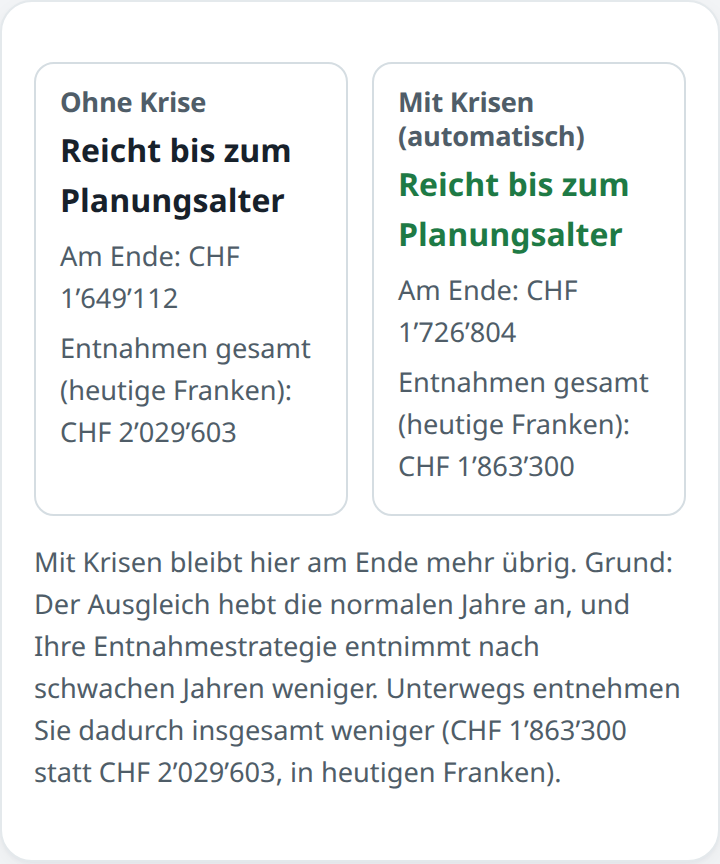
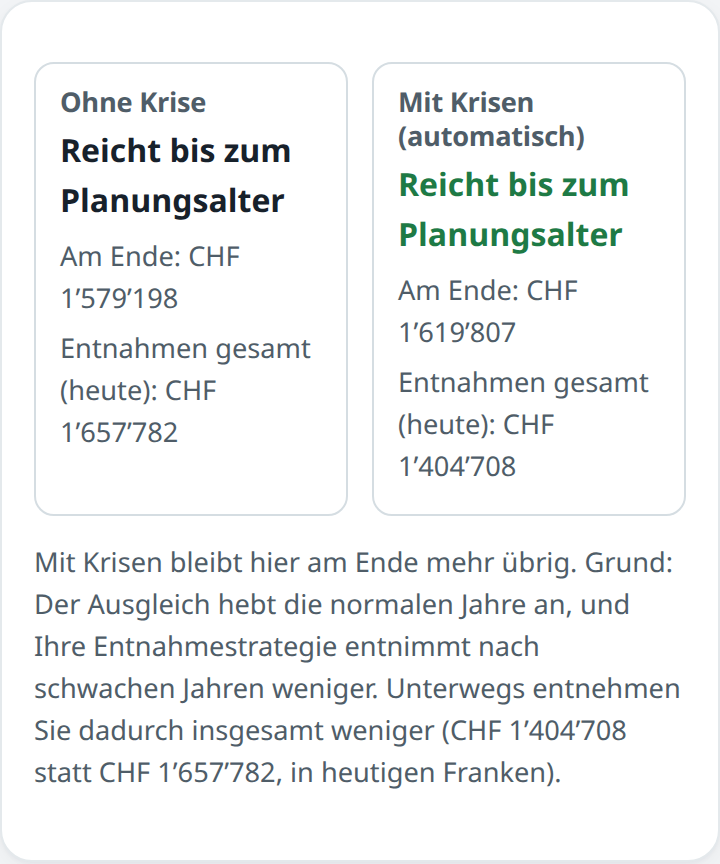
Hinweis «mehr übrig» folgt Ende, Erfolg und Entnahmen (Version 1.3.8)
Der Satz über schwache Jahre steht nur, wenn wirklich weniger entnommen wird. Verglichen wird das reale Endvermögen, erst ab CHF 10’000 und nur bei einem positiven Erfolg.

diff --git a/src/ui/krisenAnzeigeRendite.test.ts b/src/ui/krisenAnzeigeRendite.test.ts
@@ -12,6 +12,7 @@ import {
   entnahmenGesamt,
   haushaltOhneKrise,
   KrisenSteuerung,
+  MEHR_UEBRIG_AB,
   mehrUebrigText,
   vergleichOhneKrise,
 } from './components/Krisen';
@@ -223,56 +224,183 @@ describe('Vergleich Ohne Krise mit dem Regler', () => {
     const hw = mitWasWaere(h, { ...KEIN_WAS_WAERE, rendite: 0.1 }, 2026);
     const ohne = vergleichOhneKrise(hw, regeln, start);
     const mit = rechne(hw, regeln, start, 'gemeinsam').wunsch;
-    const dar = darstellungVon(h);
-    const endeOhne = endBetrag(ohne, dar);
-    const endeMit = endBetrag(mit, dar);
     const summeOhne = entnahmenGesamt(ohne);
     const summeMit = entnahmenGesamt(mit);
     expect(summeOhne).toBe(ohne.zeilen.reduce((s, z) => s + z.entnahmeFrei, 0));
     expect(summeMit).toBe(mit.zeilen.reduce((s, z) => s + z.entnahmeFrei, 0));
-    expect(Math.round(endeMit)).toBeGreaterThan(Math.round(endeOhne));
+    expect(mit.erfolg).toBe(true);
+    expect(mit.endVermoegen - ohne.endVermoegen).toBeGreaterThanOrEqual(MEHR_UEBRIG_AB);
     expect(summeMit).toBeLessThan(summeOhne);
-    const text = mehrUebrigText(endeOhne, endeMit, summeOhne, summeMit, true, normalisiereEntnahme(hw.entnahme));
+    const text = mehrUebrigText(
+      ohne.endVermoegen,
+      mit.endVermoegen,
+      summeOhne,
+      summeMit,
+      true,
+      normalisiereEntnahme(hw.entnahme),
+      mit.erfolg,
+    );
     expect(text).toContain('entnimmt nach schwachen Jahren weniger');
     expect(text).toContain(`${fmtChf(summeMit)} statt ${fmtChf(summeOhne)}`);
     const html = kasten(h, 0.1, mit, hw);
-    expect(html).toContain(`Entnahmen gesamt (heutige Franken): ${fmtChf(summeOhne)}`);
-    expect(html).toContain(`Entnahmen gesamt (heutige Franken): ${fmtChf(summeMit)}`);
+    expect(html).toContain(`Entnahmen gesamt (heute): ${fmtChf(summeOhne)}`);
+    expect(html).toContain(`Entnahmen gesamt (heute): ${fmtChf(summeMit)}`);
     expect(html).toContain(text ?? '');
 
     const stress = haushalt('individuell', false);
     const hwStress = mitWasWaere(stress, { ...KEIN_WAS_WAERE, rendite: 0.1 }, 2026);
     const ohneStress = vergleichOhneKrise(hwStress, regeln, start);
     const mitStress = rechne(hwStress, regeln, start, 'gemeinsam').wunsch;
-    expect(Math.round(endBetrag(mitStress, dar))).toBeLessThan(Math.round(endBetrag(ohneStress, dar)));
+    expect(Math.round(mitStress.endVermoegen)).toBeLessThan(Math.round(ohneStress.endVermoegen));
     const htmlStress = kasten(stress, 0.1, mitStress, hwStress);
     expect(htmlStress).not.toContain('bleibt hier am Ende mehr übrig');
-    expect(htmlStress).toContain(`Entnahmen gesamt (heutige Franken): ${fmtChf(entnahmenGesamt(ohneStress))}`);
-    expect(htmlStress).toContain(`Entnahmen gesamt (heutige Franken): ${fmtChf(entnahmenGesamt(mitStress))}`);
+    expect(htmlStress).toContain(`Entnahmen gesamt (heute): ${fmtChf(entnahmenGesamt(ohneStress))}`);
+    expect(htmlStress).toContain(`Entnahmen gesamt (heute): ${fmtChf(entnahmenGesamt(mitStress))}`);
   });
 
-  it('ohne gestaffelte Strategie nennt der Hinweis nicht die Stufen', () => {
+  it('ohne gestaffelte oder dynamische Strategie nennt der Hinweis nicht die schwachen Jahre', () => {
     const h = { ...haushalt('automatisch', false), entnahme: entnahmeAusgaben() };
     const hw = mitWasWaere(h, { ...KEIN_WAS_WAERE, rendite: 0.1 }, 2026);
     const ohne = vergleichOhneKrise(hw, regeln, start);
     const mit = rechne(hw, regeln, start, 'gemeinsam').wunsch;
-    const dar = darstellungVon(h);
     const text = mehrUebrigText(
-      endBetrag(ohne, dar),
-      endBetrag(mit, dar),
+      ohne.endVermoegen,
+      mit.endVermoegen,
       entnahmenGesamt(ohne),
       entnahmenGesamt(mit),
       true,
       normalisiereEntnahme(hw.entnahme),
+      mit.erfolg,
     );
     const html = kasten(h, 0.1, mit, hw);
     if (text) {
       expect(text).not.toContain('schwachen Jahren');
+      expect(text).not.toContain('dadurch insgesamt weniger');
       expect(text).toContain('Der Ausgleich hebt die normalen Jahre an');
       expect(html).toContain(text);
     } else {
       expect(html).not.toContain('bleibt hier am Ende mehr übrig');
     }
     expect(html).not.toContain('schwachen Jahren');
+  });
+
+  it('W-01: der Satz über schwache Jahre steht nur, wenn weniger entnommen wird', () => {
+    const basis = haushalt('automatisch', false);
+    const h = {
+      ...basis,
+      personen: [{ ...(basis.personen[0] as (typeof basis.personen)[0]), wertschriften: 250_000 }],
+      ausgaben: { ...basis.ausgaben, lebenshaltung: 100_000 },
+      planungsalter: 80,
+    };
+    const hw = mitWasWaere(h, { ...KEIN_WAS_WAERE, rendite: 0.04 }, 2026);
+    const ohne = vergleichOhneKrise(hw, regeln, start);
+    const mit = rechne(hw, regeln, start, 'gemeinsam').wunsch;
+    const summeOhne = entnahmenGesamt(ohne);
+    const summeMit = entnahmenGesamt(mit);
+    expect(mit.erfolg).toBe(true);
+    expect(mit.endVermoegen).toBeGreaterThan(0);
+    expect(mit.endVermoegen - ohne.endVermoegen).toBeGreaterThanOrEqual(MEHR_UEBRIG_AB);
+    expect(summeMit).toBeGreaterThanOrEqual(summeOhne);
+    const text = mehrUebrigText(
+      ohne.endVermoegen,
+      mit.endVermoegen,
+      summeOhne,
+      summeMit,
+      true,
+      normalisiereEntnahme(hw.entnahme),
+      mit.erfolg,
+    );
+    expect(text).toContain('Je nachdem, wann die Krisen fallen, wächst das Vermögen dadurch insgesamt stärker.');
+    expect(text).not.toContain('schwachen Jahren');
+    expect(text).not.toContain('insgesamt weniger');
+    const html = kasten(h, 0.04, mit, hw);
+    expect(html).toContain(text ?? '');
+    expect(html).not.toContain('schwachen Jahren');
+  });
+
+  it('W-02: im Ruinfall steht der Hinweis nicht, auch wenn das Ende höher ist', () => {
+    const basis = haushalt('automatisch', false);
+    const person = basis.personen[0] as (typeof basis.personen)[0];
+    const h = {
+      ...basis,
+      personen: [{ ...person, lohn: 60_000, wertschriften: 200_000 }],
+      ausgaben: { ...basis.ausgaben, lebenshaltung: 80_000 },
+      planungsalter: 80,
+    };
+    const hw = mitWasWaere(h, { ...KEIN_WAS_WAERE, rendite: 0 }, 2026);
+    const ohne = vergleichOhneKrise(hw, regeln, start);
+    const mit = rechne(hw, regeln, start, 'gemeinsam').wunsch;
+    expect(mit.erfolg).toBe(false);
+    expect(mit.endVermoegen).toBeLessThanOrEqual(0);
+    expect(mit.endVermoegen - ohne.endVermoegen).toBeGreaterThanOrEqual(MEHR_UEBRIG_AB);
+    expect(
+      mehrUebrigText(
+        ohne.endVermoegen,
+        mit.endVermoegen,
+        entnahmenGesamt(ohne),
+        entnahmenGesamt(mit),
+        true,
+        normalisiereEntnahme(hw.entnahme),
+        mit.erfolg,
+      ),
+    ).toBeNull();
+    const html = kasten(h, 0, mit, hw);
+    expect(html).not.toContain('bleibt hier am Ende mehr übrig');
+    expect(html).toContain('Entnahmen gesamt (heute)');
+    expect(mehrUebrigText(0, 20_000, 10, 5, true, normalisiereEntnahme(hw.entnahme), false)).toBeNull();
+  });
+
+  it('W-03: fester Prozentsatz zählt wie gestaffelt; ohne Grund fehlt «dadurch»', () => {
+    const gestaffelt = normalisiereEntnahme(haushalt('automatisch', false).entnahme);
+    const dynamisch = normalisiereEntnahme({ art: 'dynamisch', satz: 0.04 });
+    const statisch = entnahmeAusgaben();
+    const mitSatz = mehrUebrigText(100_000, 130_000, 80_000, 60_000, true, dynamisch, true);
+    expect(mitSatz).toContain('entnimmt nach schwachen Jahren weniger');
+    expect(mitSatz).toContain('dadurch insgesamt weniger');
+    expect(mehrUebrigText(100_000, 130_000, 80_000, 60_000, true, gestaffelt, true)).toContain(
+      'entnimmt nach schwachen Jahren weniger',
+    );
+    const ohneGrund = mehrUebrigText(100_000, 130_000, 80_000, 60_000, false, statisch, true);
+    expect(ohneGrund).toContain('insgesamt weniger');
+    expect(ohneGrund).not.toContain('dadurch');
+    expect(ohneGrund).not.toContain('Grund:');
+  });
+
+  it('W-04: in der Darstellung Nominal zählt das reale Ende', () => {
+    const h = { ...haushalt('automatisch', false), darstellung: 'nominal' as const };
+    const ohne = vergleichOhneKrise(h, regeln, start);
+    const mit = rechne(h, regeln, start, 'gemeinsam').wunsch;
+    const dar = darstellungVon(h);
+    expect(dar).toBe('nominal');
+    expect(mit.endVermoegen).toBeLessThan(ohne.endVermoegen);
+    expect(endBetrag(mit, dar)).toBeGreaterThan(endBetrag(ohne, dar));
+    expect(
+      mehrUebrigText(
+        endBetrag(ohne, dar),
+        endBetrag(mit, dar),
+        entnahmenGesamt(ohne),
+        entnahmenGesamt(mit),
+        true,
+        normalisiereEntnahme(h.entnahme),
+        mit.erfolg,
+      ),
+    ).not.toBeNull();
+    const html = kasten(h, h.annahmen.renditeNominal, mit, h);
+    expect(html).not.toContain('bleibt hier am Ende mehr übrig');
+    expect(html).toContain(`Am Ende: ${fmtChf(endBetrag(mit, dar))}`);
+
+    const zehn = mitWasWaere(h, { ...KEIN_WAS_WAERE, rendite: 0.1 }, 2026);
+    const ohneZehn = vergleichOhneKrise(zehn, regeln, start);
+    const mitZehn = rechne(zehn, regeln, start, 'gemeinsam').wunsch;
+    expect(mitZehn.endVermoegen - ohneZehn.endVermoegen).toBeGreaterThanOrEqual(MEHR_UEBRIG_AB);
+    const htmlZehn = kasten(h, 0.1, mitZehn, zehn);
+    expect(htmlZehn).toContain('bleibt hier am Ende mehr übrig');
+  });
+
+  it('der Hinweis beginnt erst ab 10’000 Franken Abstand', () => {
+    const strategie = normalisiereEntnahme(haushalt('automatisch', false).entnahme);
+    expect(mehrUebrigText(100_000, 100_000 + MEHR_UEBRIG_AB - 1, 10, 5, true, strategie, true)).toBeNull();
+    expect(mehrUebrigText(100_000, 100_000 + MEHR_UEBRIG_AB, 10, 5, true, strategie, true)).toContain('schwache');
+    expect(mehrUebrigText(-20_000, 0, 10, 5, true, strategie, true)).toBeNull();
   });
 });

diff --git a/src/ui/components/Krisen.tsx b/src/ui/components/Krisen.tsx
@@ -153,9 +153,17 @@ export function entnahmenGesamt(e: SimulationsErgebnis): number {
 }
 
 /**
- * Hinweis, wenn «Mit Krisen» am Ende höher ist als «Ohne Krise».
- * Beträge sind die angezeigten Endergebnisse und die Entnahmen derselben beiden Rechnungen.
- * Ohne Ausgleich oder ohne die gestaffelte Strategie fällt der Satz weg, der dann nicht stimmen würde.
+ * Hinweis erst ab diesem Abstand des realen Endvermögens (`endVermoegen`, heutige Franken).
+ * Ein Prozent scheitert, wenn «Ohne Krise» bei null oder darunter endet.
+ */
+export const MEHR_UEBRIG_AB = 10_000;
+
+/**
+ * Hinweis, wenn «Mit Krisen» den Planungshorizont erreicht, positiv endet und real
+ * mindestens `MEHR_UEBRIG_AB` über «Ohne Krise» liegt. Verglichen wird `endVermoegen`,
+ * auch in der Darstellung «Nominal». Die Entnahmen sind die Summen derselben beiden Rechnungen.
+ * Den Satz über schwache Jahre gibt es nur bei «Dynamisch gestaffelt» oder «Dynamisch
+ * (fester Prozentsatz)» und nur, wenn die Entnahmen wirklich tiefer liegen.
  */
 export function mehrUebrigText(
   endeOhne: number,
@@ -164,18 +172,29 @@ export function mehrUebrigText(
   entnahmeMit: number,
   ausgleich: boolean,
   strategie: Entnahme,
+  erfolg: boolean,
 ): string | null {
-  if (!(Math.round(endeMit) > Math.round(endeOhne))) return null;
+  if (!erfolg || !(endeMit > 0) || endeMit - endeOhne < MEHR_UEBRIG_AB) return null;
+  const kopf = 'Mit Krisen bleibt hier am Ende mehr übrig.';
   const weniger = entnahmeMit < entnahmeOhne;
-  const betraege = weniger
-    ? ` Unterwegs entnehmen Sie dadurch insgesamt weniger (${fmtChf(entnahmeMit)} statt ${fmtChf(entnahmeOhne)}, in heutigen Franken).`
-    : '';
-  if (!ausgleich) return `Mit Krisen bleibt hier am Ende mehr übrig.${betraege}`;
-  const gestaffelt = strategie.art === 'gestaffelt';
-  const grund = gestaffelt
-    ? 'Der Ausgleich hebt die normalen Jahre an, und Ihre Entnahmestrategie entnimmt nach schwachen Jahren weniger.'
-    : 'Der Ausgleich hebt die normalen Jahre an.';
-  return `Mit Krisen bleibt hier am Ende mehr übrig. Grund: ${grund}${betraege}`;
+  const satzNachSchwachenJahren = strategie.art === 'gestaffelt' || strategie.art === 'dynamisch';
+  const summen = `${fmtChf(entnahmeMit)} statt ${fmtChf(entnahmeOhne)}`;
+  if (weniger && satzNachSchwachenJahren) {
+    const grund = ausgleich
+      ? 'Der Ausgleich hebt die normalen Jahre an, und Ihre Entnahmestrategie entnimmt nach schwachen Jahren weniger.'
+      : 'Ihre Entnahmestrategie entnimmt nach schwachen Jahren weniger.';
+    return `${kopf} Grund: ${grund} Unterwegs entnehmen Sie dadurch insgesamt weniger (${summen}, in heutigen Franken).`;
+  }
+  if (ausgleich) {
+    return (
+      `${kopf} Grund: Der Ausgleich hebt die normalen Jahre an. ` +
+      'Je nachdem, wann die Krisen fallen, wächst das Vermögen dadurch insgesamt stärker.'
+    );
+  }
+  if (weniger) {
+    return `${kopf} Unterwegs entnehmen Sie insgesamt weniger (${summen}, in heutigen Franken).`;
+  }
+  return kopf;
 }
 
 interface Props {
@@ -250,12 +269,13 @@ export function KrisenSteuerung({
   const hinweisMehr =
     wunsch && ohne
       ? mehrUebrigText(
-          endBetrag(ohne, dar),
-          endBetrag(wunsch, dar),
+          ohne.endVermoegen,
+          wunsch.endVermoegen,
           entnahmeOhne,
           entnahmeMit,
           k.modus === 'automatisch' || k.ausgleich === true,
           normalisiereEntnahme(rechnungH.entnahme),
+          wunsch.erfolg,
         )
       : null;
   const horizont = wunsch ? `${wunsch.zeilen[0]?.jahr ?? heute.jahr}–${wunsch.zeilen.at(-1)?.jahr ?? ''}` : '';
@@ -547,7 +567,7 @@ export function KrisenSteuerung({
                 <h3>Ohne Krise</h3>
                 <p>{ohne.erfolg ? 'Reicht bis zum Planungsalter' : `Reicht bis ${ohne.ruinJahr}`}</p>
                 <p className="klein">Am Ende: {fmtChf(endBetrag(ohne, dar))}</p>
-                <p className="klein">Entnahmen gesamt (heutige Franken): {fmtChf(entnahmeOhne)}</p>
+                <p className="klein">Entnahmen gesamt (heute): {fmtChf(entnahmeOhne)}</p>
               </div>
               <div>
                 <h3>{k.modus === 'automatisch' ? 'Mit Krisen (automatisch)' : 'Mit Ihren Krisen'}</h3>
@@ -557,7 +577,7 @@ export function KrisenSteuerung({
                     : `Reicht bis ${wunsch.ruinJahr} (Alter ${wunsch.ruinAlter})`}
                 </p>
                 <p className="klein">Am Ende: {fmtChf(endBetrag(wunsch, dar))}</p>
-                <p className="klein">Entnahmen gesamt (heutige Franken): {fmtChf(entnahmeMit)}</p>
+                <p className="klein">Entnahmen gesamt (heute): {fmtChf(entnahmeMit)}</p>
               </div>
               {hinweisMehr ? <p className="klein vergleich__hinweis">{hinweisMehr}</p> : null}
             </div>

diff --git a/docs/SECURITY.md b/docs/SECURITY.md
@@ -85,6 +85,7 @@ GitHub «Private vulnerability reporting» (Security → Report a vulnerability)
 | 9.10.2026 | PR Rendite im Krisenkasten (Version 1.3.7, Schema 15 unverändert), T-01, T-03 | ok, `npm audit` 0 (mit und ohne `--omit=dev`), Tests 1019 (+1 übersprungen), tsc/Lint (0 Fehler, 50 Warnungen, 3 Infos)/Build | keine Schwachstelle in der App. Keine neuen Eingänge. T-01: der Kasten und «statt …» nennen die Rendite, mit der diese Auswertung rechnet (Regler «Was wäre, wenn», sonst die Eingabe). React-Text aus `fmtProzent`. Die Simulation liest den Text nicht; `src/core` unverändert. T-03 prüft nur, dass der Zusatz der Optionszeile vor dem Pfeil endet. Keine neuen Abhängigkeiten, Endpunkte oder Workflow-Rechte. CSP und Web-Worker unverändert. Screenshots nur IHDR/IDAT/IEND. I-14 bleibt Info. Quelle: eigene Prüfung, Stand 9.10.2026. | T-01 und T-03 behoben. |
 | 9.10.2026 | PR Vergleich «Ohne Krise» mit dem Regler (Version 1.3.8, Schema 15 unverändert), U-03, U-04, U-05, U-06 | ok, `npm audit` 0 (mit und ohne `--omit=dev`), Tests 1026 (+1 übersprungen: Jahreswechsel-Wächter), tsc/Lint (0 Fehler, 50 Warnungen, 3 Infos)/Build | keine Schwachstelle in der App. Keine neuen Eingänge. U-03 und U-04 sind Anzeige und die schon vorhandene Simulation (`simuliere`, `autoNormal`) auf dem Haushalt, mit dem «Mit Krisen» rechnet. `src/core` unverändert. U-05 prüft «Übernehmen». U-06 misst die Optionszeile headless (Playwright, `measureText`), ohne Bildschirm; fehlt Chrome, bricht der Test mit einer klaren Meldung ab und wird nicht übersprungen. GitHub-hosted `ubuntu-latest` hat Chrome vorinstalliert. Keine neuen Abhängigkeiten, Endpunkte oder Workflow-Rechte. CSP und Web-Worker unverändert. Screenshots nur IHDR/IDAT/IEND. I-14 bleibt Info. Quelle: eigene Prüfung, Stand 9.10.2026. | U-03, U-04, U-05 und U-06 behoben. |
 | 9.10.2026 | PR Vergleich «Ohne Krise», Nachtrag V-01, V-02, V-03 (Version 1.3.8, Schema 15 unverändert) | ok, `npm audit` 0 (mit und ohne `--omit=dev`), Tests 1029 (+1 übersprungen: Jahreswechsel-Wächter), tsc/Lint (0 Fehler, 50 Warnungen, 3 Infos)/Build | keine Schwachstelle in der App. Keine neuen Eingänge. V-01 setzt die gemessene Schrift aus `fontStyle`, `fontWeight`, `fontSize` und `fontFamily`, weil `getComputedStyle(select).font` in Chrome leer ist. V-02 rendert die Auswertung mit Regler ungleich Eingabe. V-03 ist Anzeigetext aus denselben beiden Ergebnissen (angezeigtes Ende und Summe `entnahmeFrei`), ohne zweite Simulation. `src/core` unverändert. Keine neuen Abhängigkeiten, Endpunkte oder Workflow-Rechte. CSP und Web-Worker unverändert. Screenshot nur IHDR/IDAT/IEND. I-14 bleibt Info. Quelle: eigene Prüfung, Stand 9.10.2026. | V-01, V-02 und V-03 behoben. |
+| 9.10.2026 | PR Vergleich «Ohne Krise», Nachtrag W-01 bis W-05 (Version 1.3.8, Schema 15 unverändert) | ok, `npm audit` 0 (mit und ohne `--omit=dev`), Tests 1034 (+1 übersprungen: Jahreswechsel-Wächter), tsc/Lint (0 Fehler, 50 Warnungen, 3 Infos)/Build | keine Schwachstelle in der App. Keine neuen Eingänge. W-01 bis W-05 sind Anzeigetext. Der Hinweis vergleicht `endVermoegen` (auch bei «Nominal»), verlangt Erfolg und ein positives Ende und beginnt erst ab CHF 10’000 Abstand (`MEHR_UEBRIG_AB`). Die Beträge sind die Summen `entnahmeFrei` derselben beiden Ergebnisse, ohne zweite Simulation. `src/core` unverändert. Keine neuen Abhängigkeiten, Endpunkte oder Workflow-Rechte. CSP und Web-Worker unverändert. Screenshots nur IHDR/IDAT/IEND. I-14 bleibt Info. Quelle: eigene Prüfung, Stand 9.10.2026. | W-01, W-02, W-03, W-04 und W-05 behoben. |
 
 ### Offene Punkte
 

diff --git a/docs/krisen.md b/docs/krisen.md
@@ -134,10 +134,13 @@ Stresstest.
   direkt unter dem Umschalter Keine / Automatisch / Individuell. Eine eigene Karte «Krisen» gibt es nicht.
   Der Vergleich «Ohne Krise / Mit Ihren Krisen» (bei «Automatisch»: «Mit Krisen (automatisch)») rechnet beide Spalten
   mit denselben Reglern aus «Was wäre, wenn». «Ohne Krise» ist dieselbe Simulation, nur mit Krisenmodus «Keine».
-  Beide Spalten nennen «Entnahmen gesamt (heutige Franken)», die Summe von `entnahmeFrei` derselben Rechnung.
-  Liegt «Mit Krisen» am Ende höher, steht darunter der Grund: der Ausgleich hebt die normalen Jahre an. Bei
-  «Dynamisch gestaffelt» entnimmt die Strategie nach schwachen Jahren weniger; der Satz nennt dann die beiden
-  Entnahmesummen. Ohne diese Strategie entfällt der Satz über die schwachen Jahre.
+  Beide Spalten nennen «Entnahmen gesamt (heute)», die Summe von `entnahmeFrei` derselben Rechnung.
+  Der Hinweis darunter steht nur, wenn «Mit Krisen» bis zum Planungsalter reicht, real positiv endet
+  (`endVermoegen` > 0, auch in der Darstellung «Nominal») und mindestens CHF 10’000 über «Ohne Krise» liegt
+  (`MEHR_UEBRIG_AB`). Liegen die Entnahmen tiefer und die Strategie ist «Dynamisch gestaffelt» oder
+  «Dynamisch (fester Prozentsatz)», nennt der Satz die schwachen Jahre und die beiden Summen. Sonst, mit
+  Ausgleich: die normalen Jahre werden angehoben, und je nachdem, wann die Krisen fallen, wächst das Vermögen
+  stärker. Ohne genannten Grund fehlt «dadurch».
   Ist in der Umkehrrechnung «Individuell» gewählt, gilt dieselbe Liste aus dem Haushalt. Ist sie leer, rechnet
   die Umkehr weiterhin die Finanzkrise ab nächstem Jahr, bis die Liste Einträge hat.
 - **Überschneidung:** Pro Monat gilt die später beginnende Krise, bei gleichem Beginn der Eintrag weiter unten.

diff --git a/CHANGELOG.md b/CHANGELOG.md
@@ -6,8 +6,8 @@ Regel: Jeder Pull Request erhöht die Version in `package.json` (Patch: 1.0.1, 1
 ## [1.3.8] - 2026-10-09
 
 ### Geändert
-- Vergleich «Ohne Krise / Mit Ihren Krisen»: «Ohne Krise» rechnet mit denselben Reglern wie die Spalte mit Krisen (Rendite, Teuerung, Rücktritt, Ausgaben, Planungsalter). Nur die Krisen sind aus. Beide Spalten nennen die Entnahmen gesamt in heutigen Franken.
-- Liegt «Mit Krisen» am Ende höher, sagt der Vergleich warum: der Ausgleich hebt die normalen Jahre an, und «Dynamisch gestaffelt» entnimmt nach schwachen Jahren weniger. Die genannten Beträge sind die Entnahmen derselben beiden Rechnungen. Ohne diese Strategie fällt der Satz über die schwachen Jahre weg.
+- Vergleich «Ohne Krise / Mit Ihren Krisen»: «Ohne Krise» rechnet mit denselben Reglern wie die Spalte mit Krisen (Rendite, Teuerung, Rücktritt, Ausgaben, Planungsalter). Nur die Krisen sind aus. Beide Spalten nennen «Entnahmen gesamt (heute)».
+- Der Hinweis «mehr übrig» steht nur, wenn «Mit Krisen» bis zum Planungsalter reicht, real positiv endet und mindestens CHF 10’000 über «Ohne Krise» liegt (`endVermoegen`, auch bei «Nominal»). Liegen die Entnahmen tiefer und die Strategie ist «Dynamisch gestaffelt» oder «Dynamisch (fester Prozentsatz)», nennt der Satz die schwachen Jahre und die beiden Summen. Sonst erklärt der Ausgleich, dass das Vermögen je nach Krisenzeitpunkt stärker wächst. Ohne genannten Grund fehlt «dadurch».
 - «Zum Vergleich … über einen ganzen Umlauf» nennt den Satz des Reglers, nicht die noch nicht übernommene Eingabe.
 
 ## [1.3.7] - 2026-10-09
